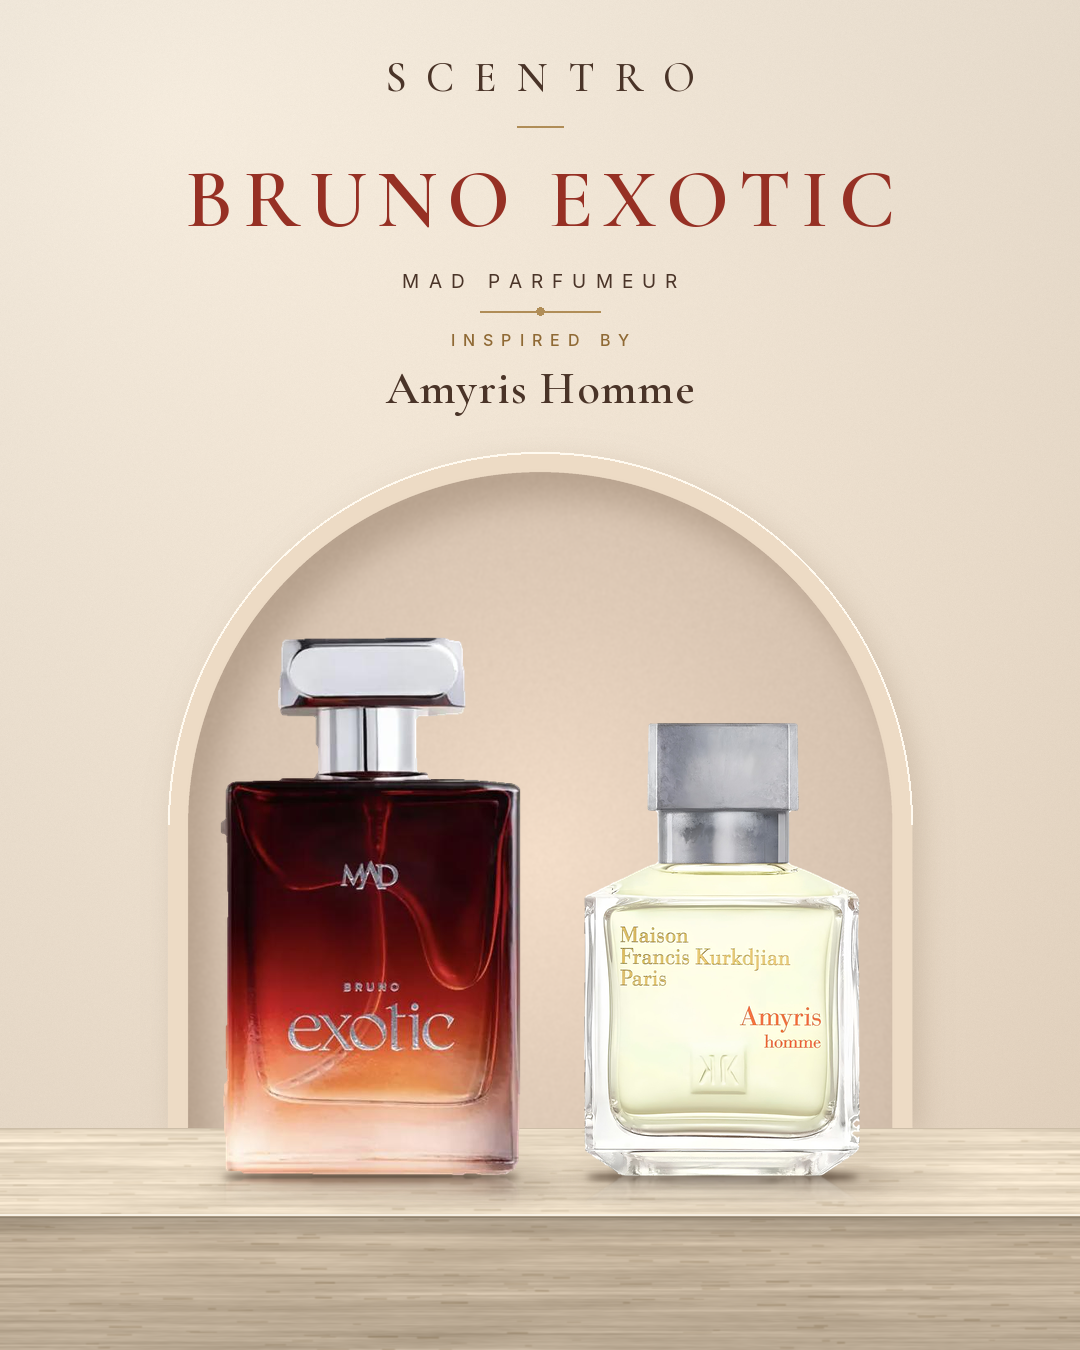
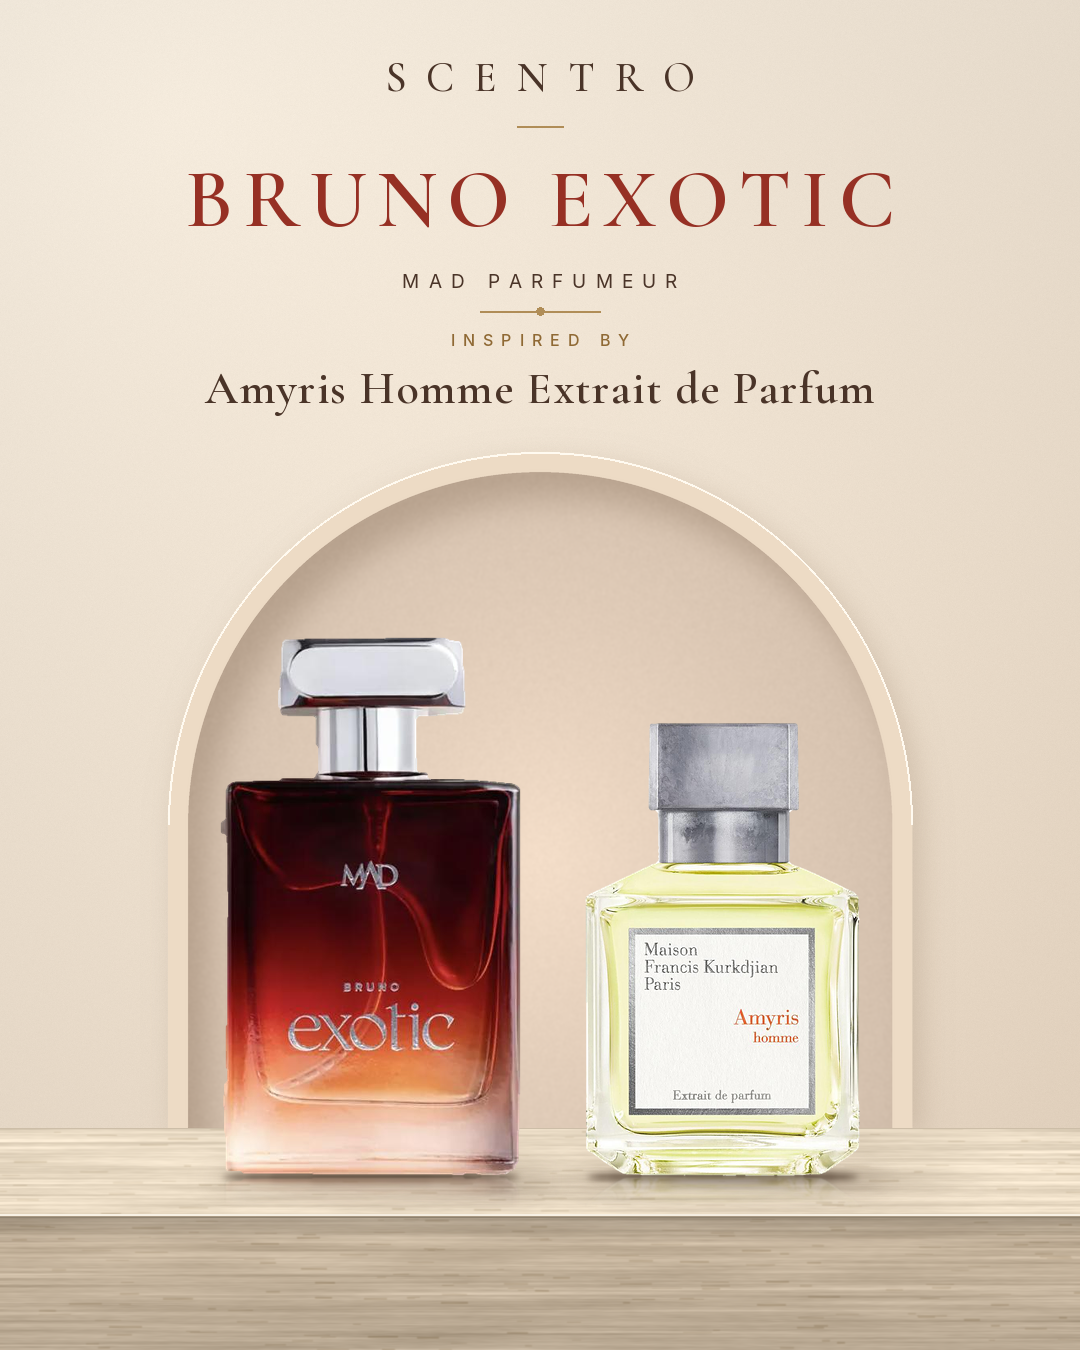
Bruno Exotic: use Amyris Homme Extrait de Parfum bottle
Claude-Session: https://claude.ai/code/session_01UApyk7Kdwc7MEVpfJtnJsr

diff --git a/scentro/build_slide.py b/scentro/build_slide.py
@@ -47,7 +47,7 @@ def C2S(n, title, mad, orig, inspired, title_rgb, bg_a, bg_b, niche, mad_h, orig
              stone=stone, name_size=name_size, out=f'output/collection2/slide{n}_{slug}.png')
 
 
-SLIDES[12] = C2S(2, 'BRUNO EXOTIC', 'mad_bruno_exotic', 'amyris_homme', 'Amyris Homme', (150, 48, 36), (245, 236, 222), (231, 214, 194), (227, 206, 186), 560, 470, stone=(3, 0, -3))
+SLIDES[12] = C2S(2, 'BRUNO EXOTIC', 'mad_bruno_exotic', 'amyris_homme_extrait', 'Amyris Homme Extrait de Parfum', (150, 48, 36), (245, 236, 222), (231, 214, 194), (227, 206, 186), 560, 470, stone=(3, 0, -3))
 SLIDES[13] = C2S(3, 'BRUNO DETOX', 'mad_bruno_detox', 'delox', 'Delox', (96, 50, 90), (246, 239, 233), (233, 221, 223), (229, 212, 216), 560, 470, stone=(1, -1, 2))
 SLIDES[14] = C2S(4, 'ADRIA', 'mad_adria', 'craquele', 'Craquelé', (24, 84, 88), (244, 239, 229), (227, 225, 211), (222, 220, 205), 560, 480, stone=(-2, 1, 0))
 SLIDES[15] = C2S(5, 'INVITING', 'mad_inviting', 'supreme_bouquet', 'Supreme Bouquet', (150, 112, 40), (248, 241, 226), (237, 223, 195), (233, 217, 187), 520, 480, stone=(3, 1, -5))
